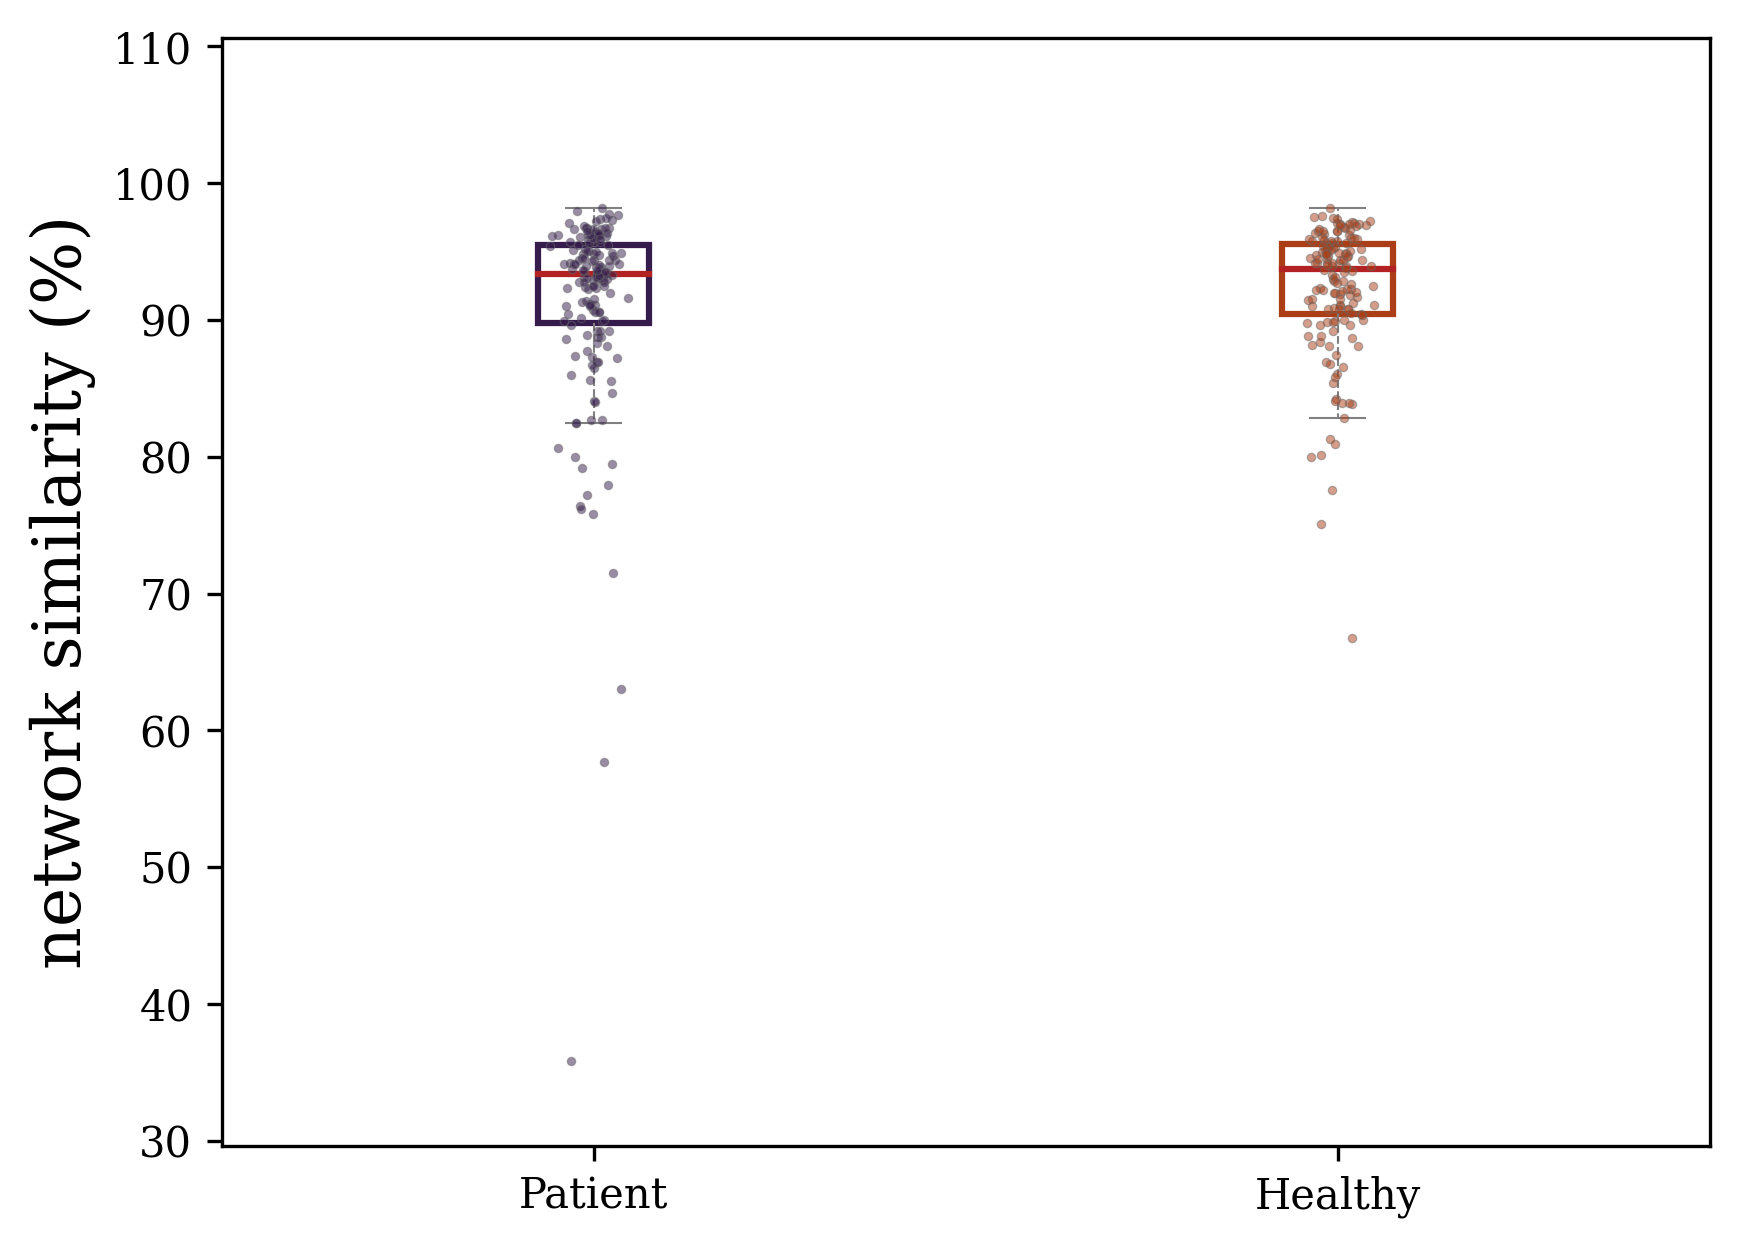
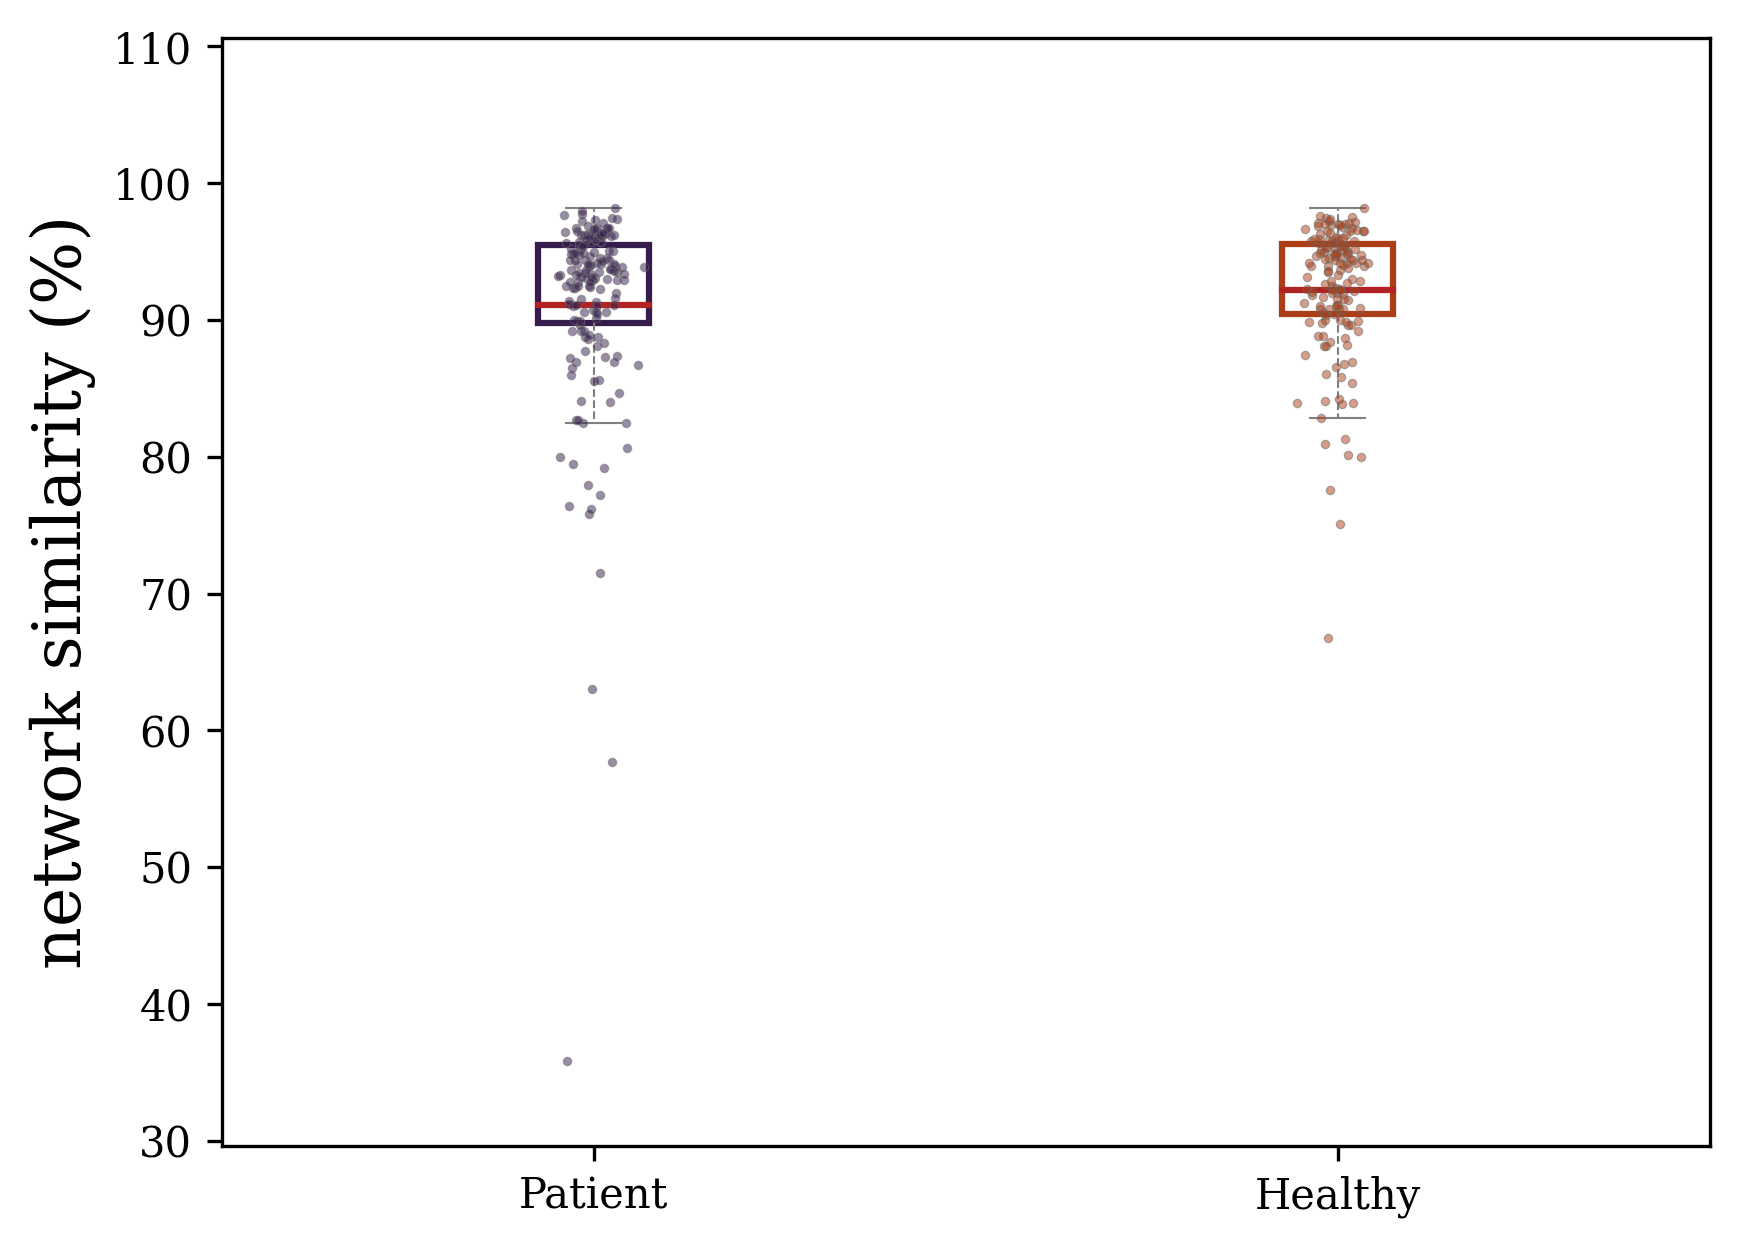
group diff with mean

Changed region(s): [[0.3105, 0.1562, 0.3726, 0.4062], [0.7453, 0.1562, 0.8074, 0.375]]

diff --git a/brainMatching/examples/groupwise_NAS/scripts/groupDifference_similarity.py b/brainMatching/examples/groupwise_NAS/scripts/groupDifference_similarity.py
@@ -187,6 +187,6 @@ yLim=[minY-offset/2.0,maxY+offset] ## use these lines to  make space specific to
 # yLim=[67,102] ## use these lines to make the space constant (such as across different plots)
 scoreName="network similarity (%)"
 if plotType=="box":
-    drawBoxPlot(data,dataLabels,title,outputPath,xLabel='',yLabel=scoreName,colors=colors,rotation=0,plotScatter=True,yLim=yLim,middleLine='median') #since we use Mann-Whitney U test for group dofference, we should plot median line in boxplots
+    drawBoxPlot(data,dataLabels,title,outputPath,xLabel='',yLabel=scoreName,colors=colors,rotation=0,plotScatter=True,yLim=yLim,middleLine='mean') #since we use Mann-Whitney U test for group dofference, we should plot median line in boxplots
 elif plotType=="violin":
     drawViolinPlot(data,dataLabels,title,outputPath,xLabel='',yLabel=scoreName,colors=colors,rotation=0,yLim=yLim)

diff --git a/brainMatching/examples/groupwise_NAS/scripts/groupDiff_system.py b/brainMatching/examples/groupwise_NAS/scripts/groupDiff_system.py
@@ -162,6 +162,6 @@ for ind, system in enumerate(sysNames):
     # yLim=[67,102] ## use these lines to make the space constant (such as across different plots)
     scoreName="network similarity (%)"
     if plotType=="box":
-        drawBoxPlot(data,dataLabels,title,outputPath,xLabel='',yLabel=scoreName,colors=colors,rotation=0,plotScatter=True,yLim=yLim,middleLine='median') #since we use Mann-Whitney U test for group dofference, we should plot median line in boxplots
+        drawBoxPlot(data,dataLabels,title,outputPath,xLabel='',yLabel=scoreName,colors=colors,rotation=0,plotScatter=True,yLim=yLim,middleLine='mean') #since we use Mann-Whitney U test for group dofference, we should plot median line in boxplots
     elif plotType=="violin":
         drawViolinPlot(data,dataLabels,title,outputPath,xLabel='',yLabel=scoreName,colors=colors,rotation=0,yLim=yLim)
